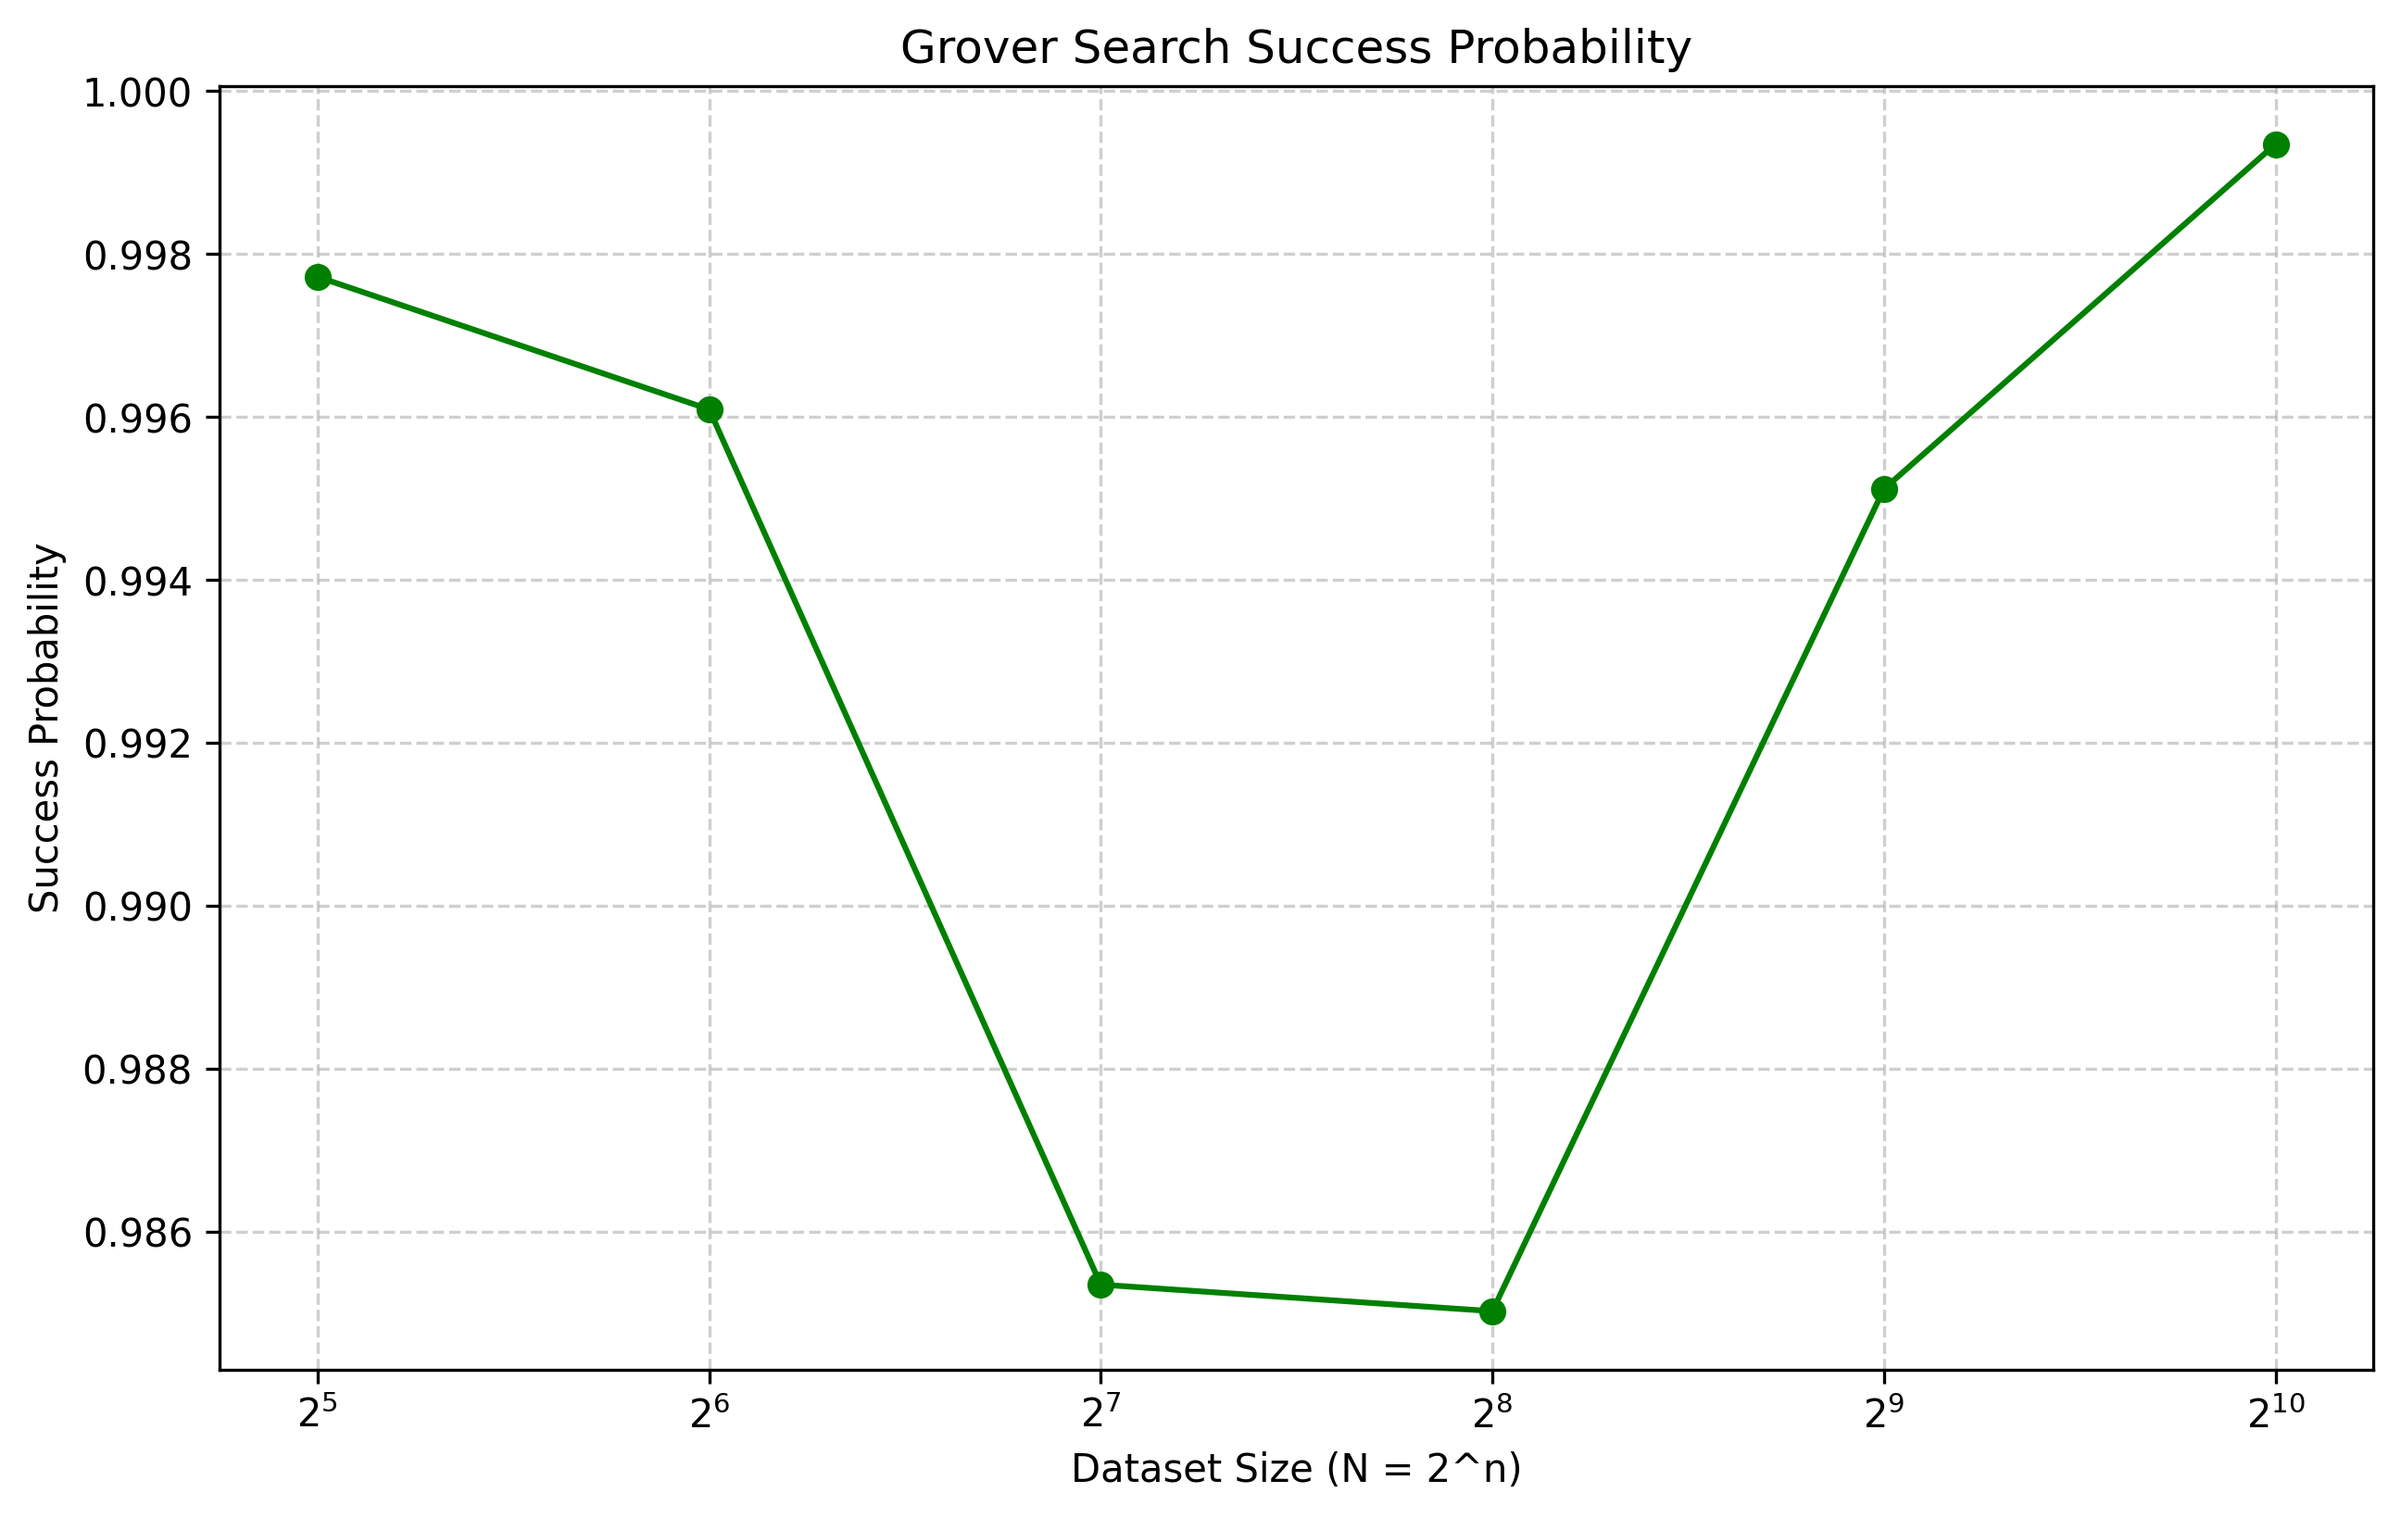
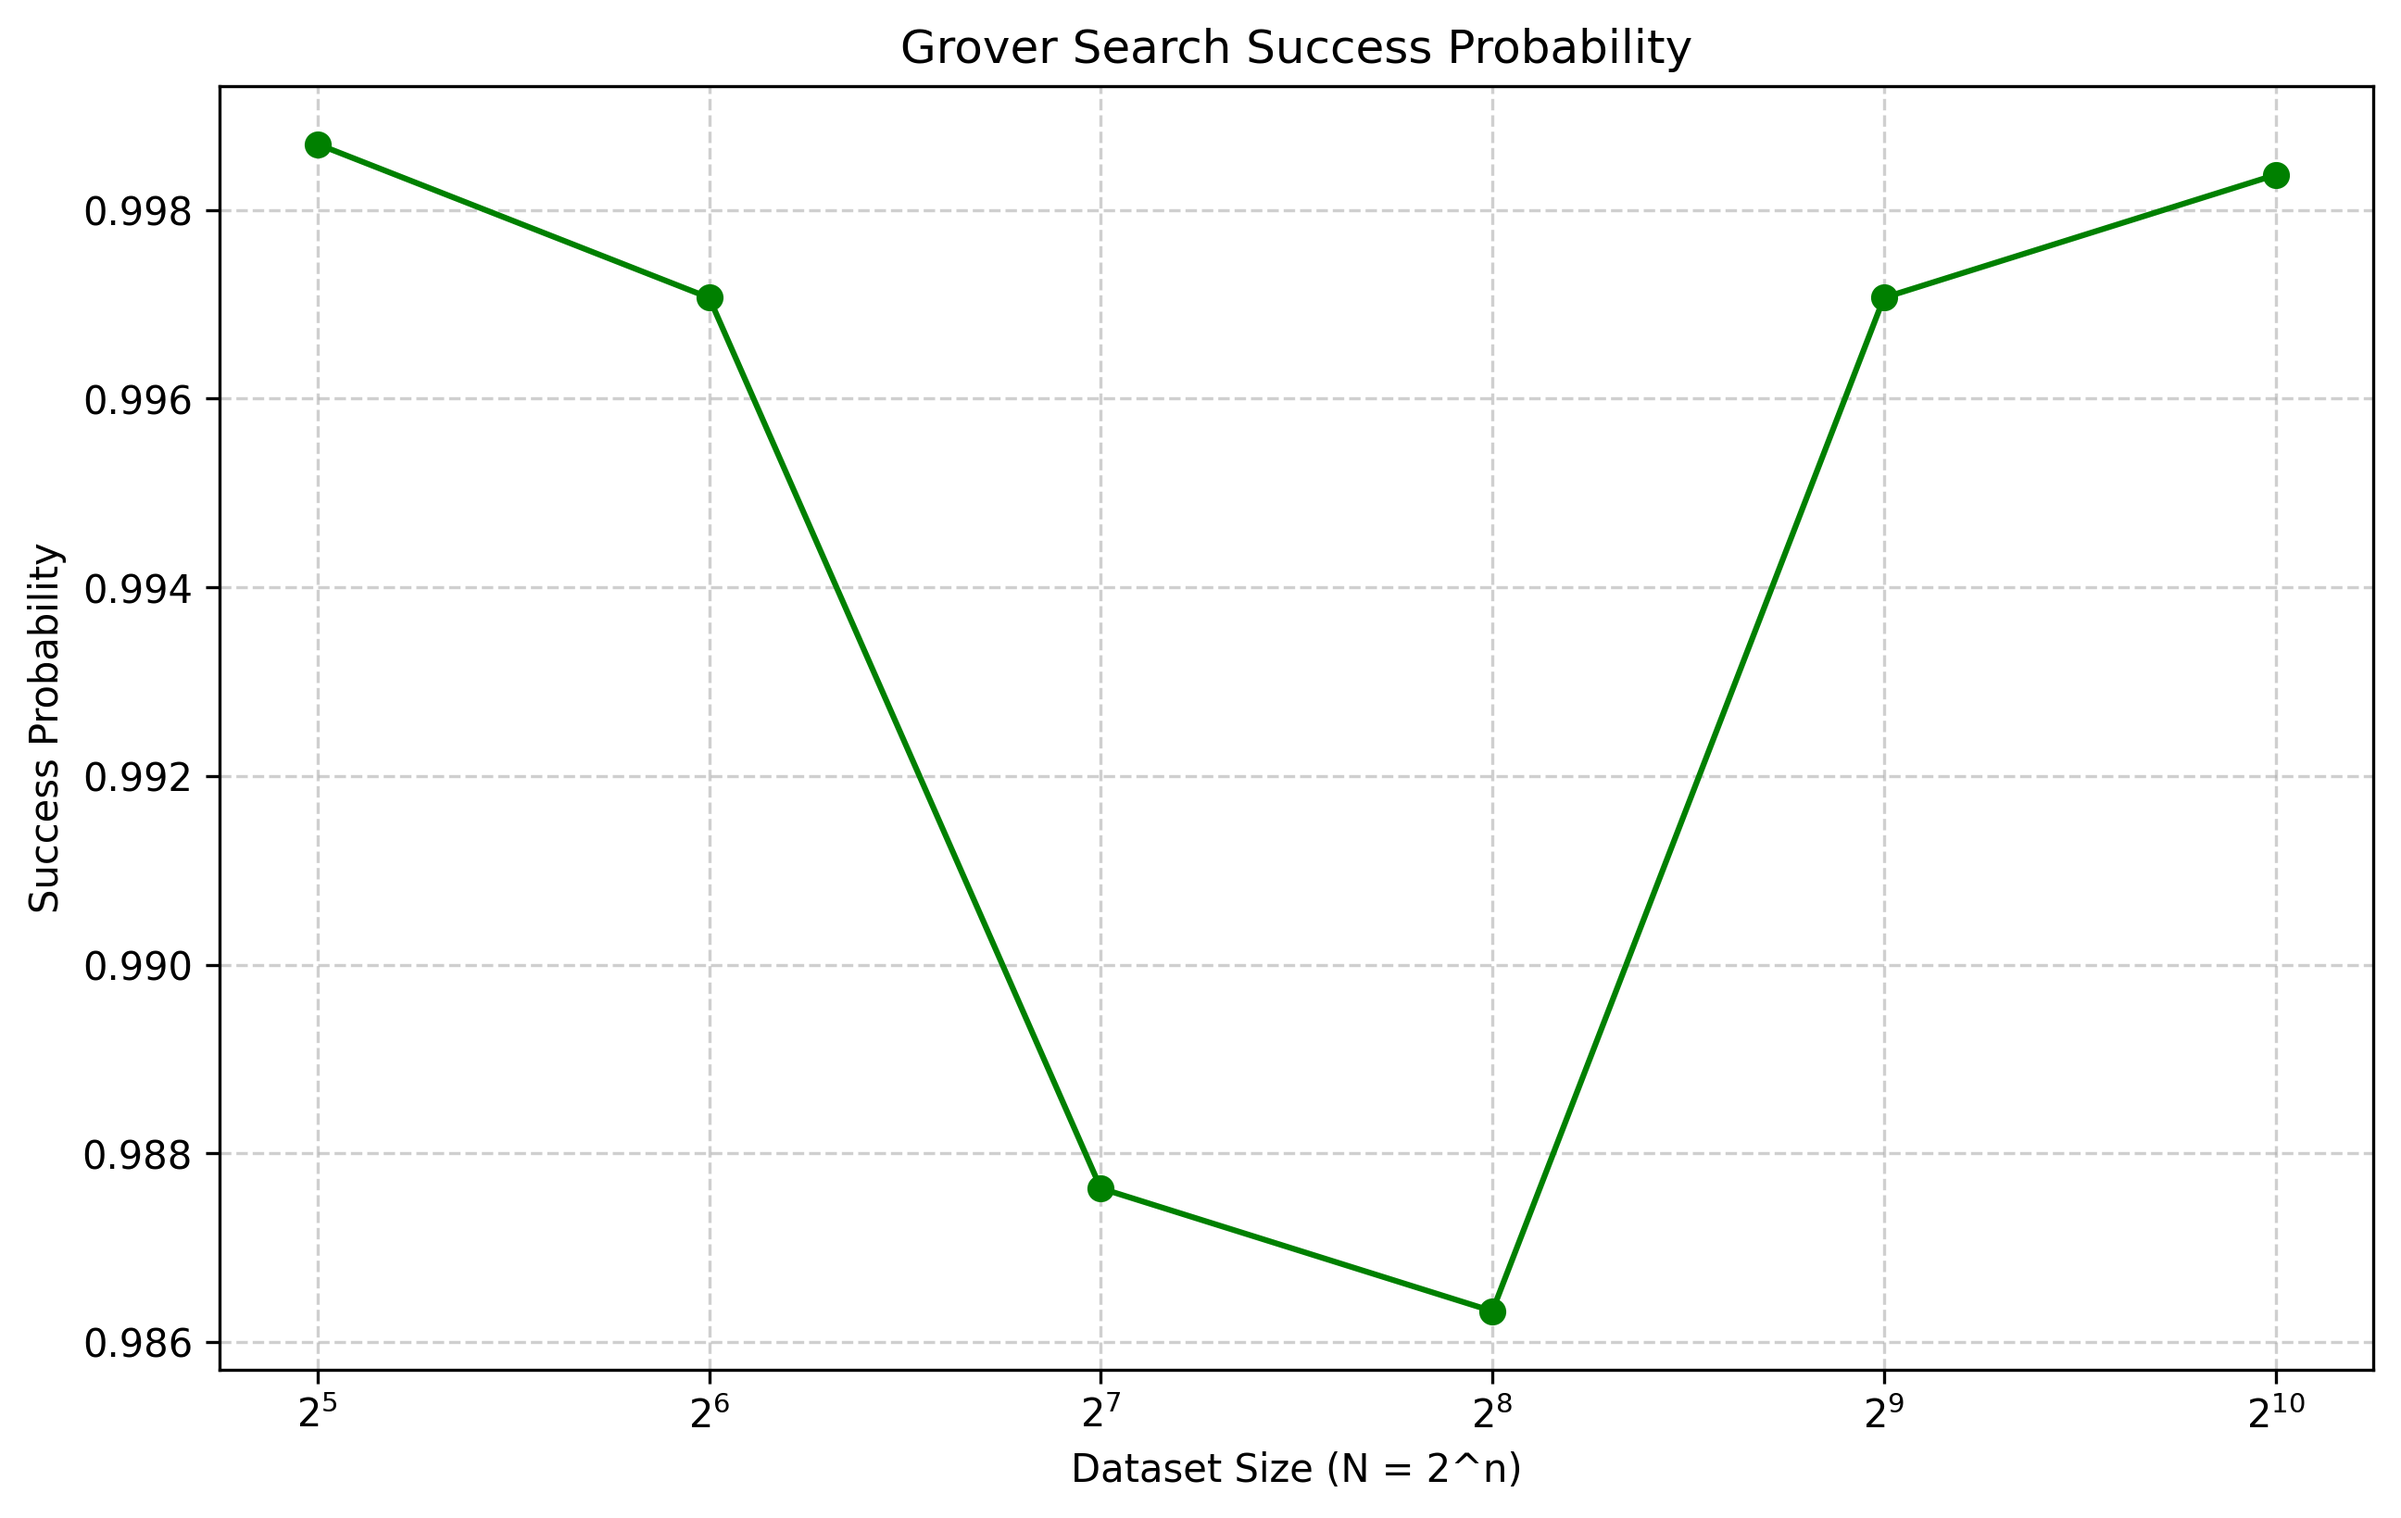
added function to find user defined targets

diff --git a/Python Codes/main.py b/Python Codes/main.py
@@ -1,9 +1,8 @@
 # main.py
 import sys
-import random
+import math   # ✅ FIX: missing import added
 
-# ---- Project modules ----
-from dataset_adapters import load_any
+from dataset_adapters import load_and_find_target
 from linear_search import linear_search
 from binary_search import binary_search
 from quantum_search import run_grover
@@ -11,31 +10,31 @@ from graphs import plot_steps, plot_success_probability
 
 
 def main():
-    print("\n==== DATASET-AGNOSTIC SEARCH BENCHMARK (CLASSICAL vs QUANTUM) ====\n")
+    print("\n==== UNIVERSAL DATASET SEARCH (CLASSICAL vs QUANTUM) ====\n")
 
     # --------------------------------------------------
-    # Dataset loading (AUTO-DETECTED TYPE)
+    # Dataset + target input
     # --------------------------------------------------
     dataset_path = input("Enter dataset file path: ").strip().strip('"').strip("'")
     if not dataset_path:
-        print("Dataset path is required.")
-        sys.exit(1)
+        sys.exit("Dataset path is required")
 
-    max_rows = input("Max rows to load (press Enter for full file): ").strip()
+    max_rows = input("Max rows to scan (press Enter for full file): ").strip()
     max_rows = int(max_rows) if max_rows else None
 
+    target = input("\nEnter what you want to find (exact text): ").strip()
+    if not target:
+        sys.exit("Target cannot be empty")
+
     try:
-        dataset = load_any(dataset_path, max_rows=max_rows)
+        dataset, target_value, target_index = load_and_find_target(
+            dataset_path, target, max_rows
+        )
     except Exception as e:
-        print("Failed to load dataset:", e)
-        sys.exit(1)
+        sys.exit(f"\n❌ {e}")
 
-    if len(dataset) < 2:
-        print("Dataset too small for search experiments.")
-        sys.exit(1)
-
-    print(f"\nLoaded dataset size: {len(dataset)} records")
-    print("Dataset type detected automatically based on file extension.")
+    print(f"\n✅ Target FOUND at dataset index: {target_index}")
+    print(f"Total dataset size: {len(dataset)} records")
 
     # --------------------------------------------------
     # Experiment configuration
@@ -44,12 +43,7 @@ def main():
         min_n = int(input("\nEnter minimum qubits (n_min): "))
         max_n = int(input("Enter maximum qubits (n_max): "))
     except ValueError:
-        print("Invalid input for qubits.")
-        sys.exit(1)
-
-    if min_n < 1 or max_n < min_n:
-        print("Invalid qubit range.")
-        sys.exit(1)
+        sys.exit("Invalid qubit input")
 
     shots_input = input("Quantum shots (default 1024): ").strip()
     shots = int(shots_input) if shots_input else 1024
@@ -64,7 +58,7 @@ def main():
     success_rates = []
 
     # --------------------------------------------------
-    # Benchmark loop
+    # Benchmark loop (CORRECT QUANTUM WINDOWING)
     # --------------------------------------------------
     for n in range(min_n, max_n + 1):
         N = 2 ** n
@@ -73,14 +67,19 @@ def main():
             print(f"\nSkipping N={N} (dataset too small)")
             continue
 
+        # ----- Build window that CONTAINS the target -----
+        start = max(0, target_index - N // 2)
+        end = start + N
+
+        if end > len(dataset):
+            end = len(dataset)
+            start = end - N
+
+        window = dataset[start:end]
+        local_target_index = window.index(target_value)
+
         print(f"\nRunning benchmark for N = {N}")
-
-        # Sample subset for fair comparison
-        window = random.sample(dataset, N)
-
-        # Choose random target
-        target_value = random.choice(window)
-        target_index = window.index(target_value)
+        print(f"Target local index in window: {local_target_index}")
 
         # -------- Classical Linear Search --------
         lin = linear_search(window, target_value)
@@ -90,7 +89,7 @@ def main():
 
         # -------- Quantum Grover Search --------
         try:
-            q = run_grover(target_index, n, shots=shots)
+            q = run_grover(local_target_index, n, shots=shots)
         except Exception as e:
             print("Quantum execution failed:", e)
             continue
@@ -102,28 +101,25 @@ def main():
         quantum_iters.append(q["iterations"])
         success_rates.append(q["success_rate"])
 
-        # Print summary for this N
-        print(f"Linear steps : {lin['steps']}")
-        print(f"Binary steps : {binr['steps']}")
-        print(f"Grover iters : {q['iterations']}")
-        print(f"Success prob : {q['success_rate']*100:.2f}%")
+        # Output
+        print(f"Linear steps      : {lin['steps']}")
+        print(f"Binary steps      : {binr['steps']}")
+        print(f"Grover iterations : {q['iterations']}")
+        print(f"Success prob      : {q['success_rate']*100:.2f}%")
 
     # --------------------------------------------------
     # Graph generation
     # --------------------------------------------------
     if not dataset_sizes:
-        print("\nNo valid data collected. Graphs not generated.")
-        sys.exit(0)
+        sys.exit("\nNo valid data collected. Graphs not generated.")
 
-    print("\nGenerating graphs for PPT & Viva...")
-
+    print("\nGenerating graphs...")
     plot_steps(dataset_sizes, linear_steps, binary_steps, quantum_iters)
     plot_success_probability(dataset_sizes, success_rates)
 
-    print("\nGraphs saved as:")
+    print("\nGraphs saved:")
     print(" - search_steps_comparison.png")
     print(" - grover_success_probability.png")
-
     print("\n==== EXPERIMENT COMPLETED SUCCESSFULLY ====\n")
 
 

diff --git a/Python Codes/dataset_adapters.py b/Python Codes/dataset_adapters.py
@@ -1,51 +1,86 @@
+# dataset_adapters.py
 import csv
 import json
 import hashlib
 from pathlib import Path
 
+
 def encode(value):
-    """Convert any value into a stable integer"""
+    """
+    Encode any value into a stable integer using SHA-256.
+    """
     return int(hashlib.sha256(str(value).encode()).hexdigest(), 16)
 
-def load_text(path, max_rows=None):
-    data = []
-    with open(path, encoding="utf-8", errors="ignore") as f:
-        for i, line in enumerate(f):
-            if max_rows and i >= max_rows:
-                break
-            data.append(encode(line.strip()))
-    return data
 
-def load_csv(path, column=0, max_rows=None):
-    data = []
-    with open(path, newline="", encoding="utf-8", errors="ignore") as f:
-        reader = csv.reader(f)
-        for i, row in enumerate(reader):
-            if max_rows and i >= max_rows:
-                break
-            if len(row) > column:
-                data.append(encode(row[column]))
-    return data
+def load_and_find_target(path, target, max_rows=None):
+    """
+    Loads a dataset and finds the FIRST row/record that contains the target string.
 
-def load_json(path, key=None, max_rows=None):
-    data = []
-    with open(path, encoding="utf-8", errors="ignore") as f:
-        records = json.load(f)
-        for i, item in enumerate(records):
-            if max_rows and i >= max_rows:
-                break
-            value = item[key] if key else item
-            data.append(encode(value))
-    return data
+    Supported formats:
+      - .txt, .log  (line-based)
+      - .csv        (row-based, all columns joined)
+      - .json       (list of objects)
 
-def load_any(path, **kwargs):
+    Returns:
+      dataset       -> list[int]   (encoded rows)
+      target_value  -> int         (encoded row that matched target)
+      target_index  -> int         (index of that row in dataset)
+
+    This design is REQUIRED for Grover's algorithm correctness.
+    """
+
     ext = Path(path).suffix.lower()
+    dataset = []
+    target_value = None
+    target_index = None
+    target_lower = target.lower()
 
+    def check_and_add(row_value):
+        nonlocal target_value, target_index
+        encoded = encode(row_value)
+        dataset.append(encoded)
+
+        # First occurrence only
+        if target_index is None and target_lower in str(row_value).lower():
+            target_value = encoded
+            target_index = len(dataset) - 1
+
+    # -------- TXT / LOG --------
     if ext in [".txt", ".log"]:
-        return load_text(path, **kwargs)
+        with open(path, encoding="utf-8", errors="ignore") as f:
+            for i, line in enumerate(f):
+                if max_rows and i >= max_rows:
+                    break
+                line = line.strip()
+                if line:
+                    check_and_add(line)
+
+    # -------- CSV --------
     elif ext == ".csv":
-        return load_csv(path, **kwargs)
+        with open(path, newline="", encoding="utf-8", errors="ignore") as f:
+            reader = csv.reader(f)
+            for i, row in enumerate(reader):
+                if max_rows and i >= max_rows:
+                    break
+                joined_row = " ".join(row)
+                check_and_add(joined_row)
+
+    # -------- JSON --------
     elif ext == ".json":
-        return load_json(path, **kwargs)
+        with open(path, encoding="utf-8", errors="ignore") as f:
+            records = json.load(f)
+            if not isinstance(records, list):
+                raise ValueError("JSON file must contain a list of records")
+
+            for i, item in enumerate(records):
+                if max_rows and i >= max_rows:
+                    break
+                check_and_add(item)
+
     else:
         raise ValueError(f"Unsupported dataset type: {ext}")
+
+    if target_index is None:
+        raise ValueError("Target not found in dataset")
+
+    return dataset, target_value, target_index
